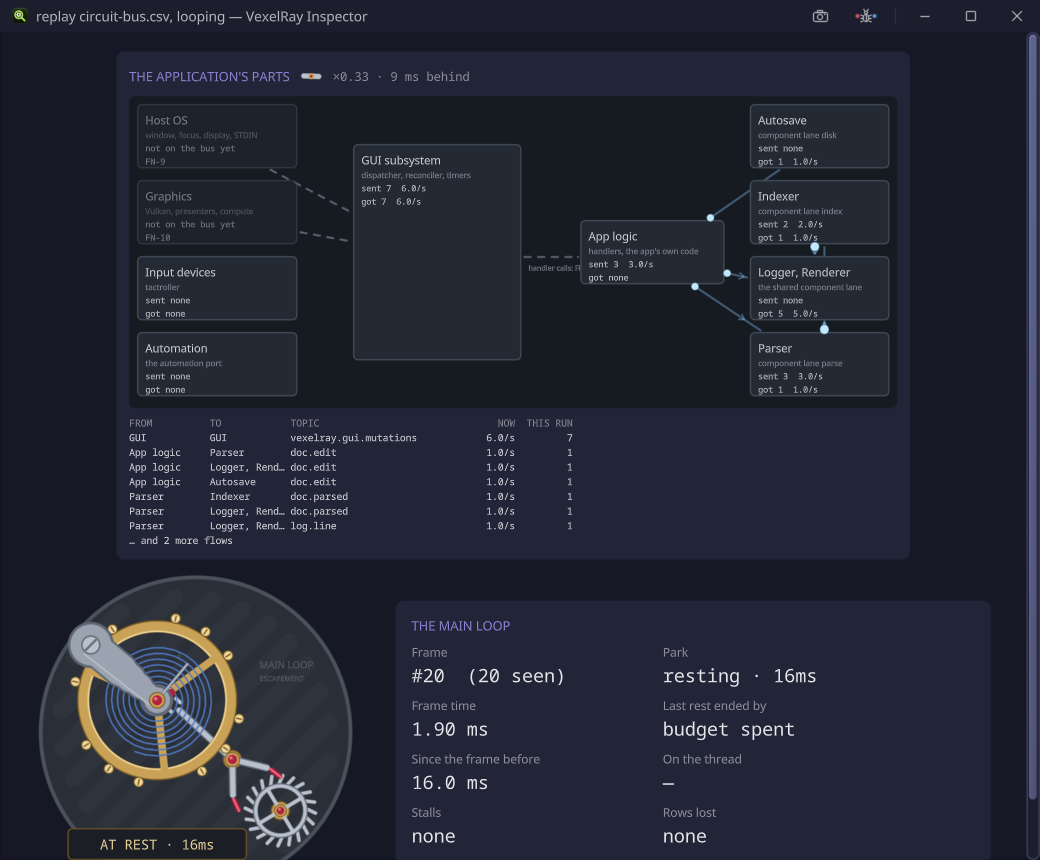
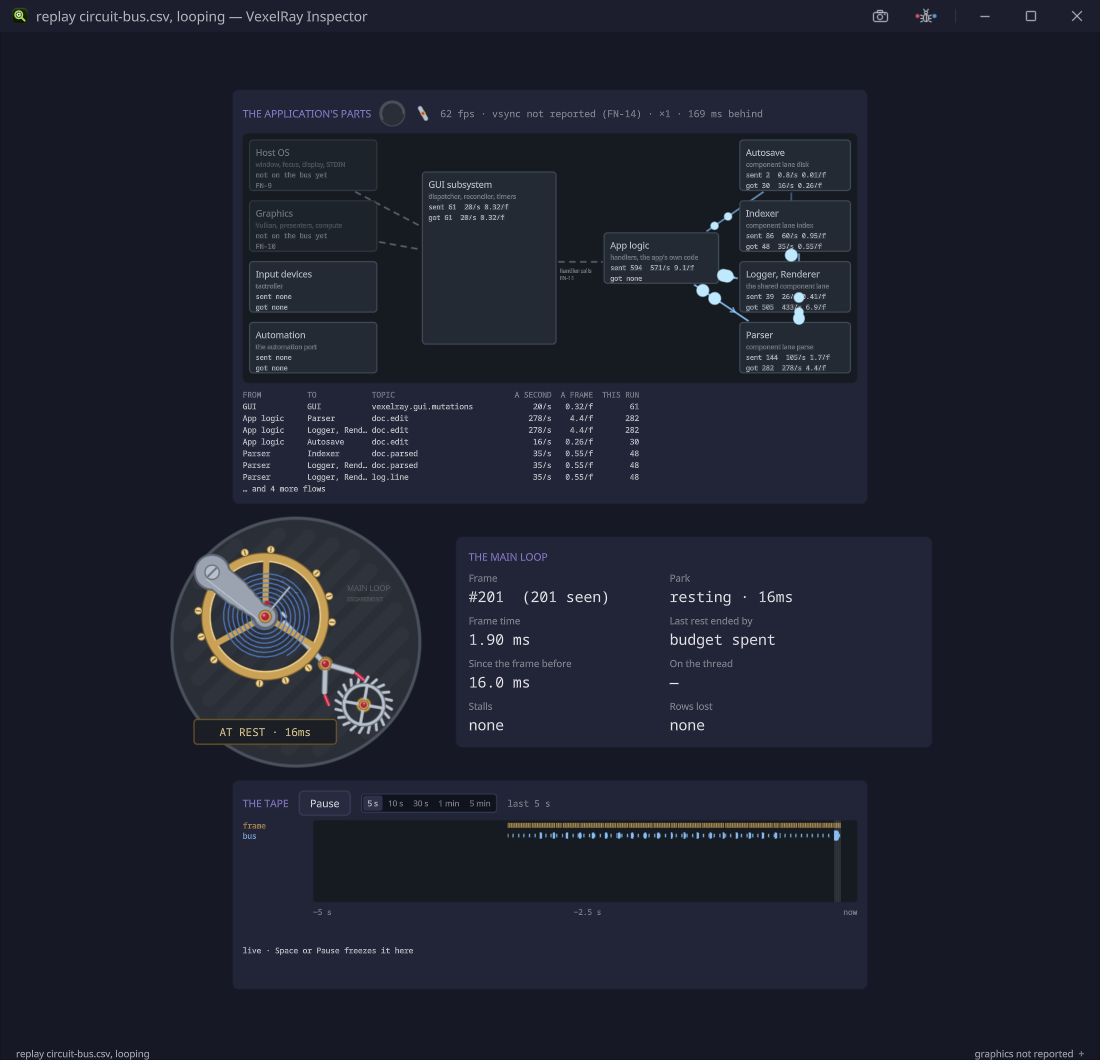
Docs and screenshots for the tape, the tachometer and the graphics line
The screenshots were from before the tape, Pause, the tachometer and the
status line's graphics. Retaken with ottermate at 1100x1060: the
calculator replay at the end of its first pass, the same paused with the
cursor on a frame.present, and the made-up component-lane run. The three
from the first skeleton, which nothing showed, are gone.

The README says how each was taken (resize answers err, so --keep-going;
a looping replay starts its tape afresh, so the last frame's forever park
is the moment), shows --bus.graph and --tape.seconds, and follows the
rename: inspector.log, and the history under ~/.inspector. The component
graph doc describes the tachometer and the governor's line; the roadmap
has the tachometer under M3 and the graphics line under M5.

diff --git a/README.md b/README.md
@@ -15,9 +15,12 @@ from its `vexel-desktop` template, and a **framework witness** like Vexplore: th
 
 ![The component graph and the main loop, replaying a calculator session](docs/screenshots/component-graph.png)
 
-*The calculator demo, replayed from `samples/calculator.csv`. Input devices and Automation send `tactroller.input` to
-the GUI, the app's handlers send it mutations, and the table under the graph names every flow with its rate and its
-total. Host OS and Graphics are drawn faint: nothing they do reaches the bus yet. Under the graph, the main loop.*
+*The calculator demo, replayed from `samples/calculator.csv`, at the end of its first pass. Input devices and Automation send
+`tactroller.input` to the GUI, the app's handlers send it mutations, and the table under the graph names every flow
+with its rate a second and a frame and its total. Host OS and Graphics are drawn faint: nothing they do reaches the bus
+yet. Beside the graph's title, the tachometer (no needle: a recording does not say its display's refresh, FN-14) and
+the governor's line. Under the graph, the main loop resting until woken, then the tape of the last 5 s, one track per
+lane; the status line says what is inspected and, at its right, what it draws with.*
 
 ## Status
 
@@ -39,7 +42,20 @@ the application's Inspector link, or it plays a recording.
 | **History by build**: every live run of an application whose build is known is kept (frames, frame time p50/p95/p99, stalls, rows lost, parks), keyed by its exact source and its stack's, and the strip under the movement compares this build with the ones before | Saying, at a glance, that this build is worse than the last (M8's rules) |
 | **The tape**: every row's header (seq, time, thread, lane, kind, frame; not its detail) for the last 5 s, 10 s, 30 s, 1 min or 5 min, chosen beside its *Pause* (`--tape.seconds` sets where it starts, any whole number), one track per lane in the order seen, ending at show time so it moves with the movement. A mark is the rows in a slice of time, taller the more there are; a ruled line is a frame. Sized for 20,000 rows a second; a storm faster than that shortens it, and the strip says by how much. A longer reach starts with what the tape already held | Remembering the reach chosen for the next run |
 | **Pause**: Space or the tape's *Pause* holds show time, so the movement, its readouts, the graph and the tape all stop at one moment while the target runs on. The tape is frozen there in a copy, a cursor marks one row and the panel under it gives that row's header and its neighbours: Left/Right a row, Ctrl+Left/Right a frame, Home/End, or a press or drag on a track. *Go on* goes back to live | The movement following the cursor back in time |
+| **What it draws with**: the status line's right end says the inspected application's GPU or software rasterizer, its device and its present path, and a click opens device, driver, Vulkan version, present path and validation above it | Any application answering (FN-12): today it says `graphics not reported` and why |
 | 110 tests, none of which needs a window; one builds the real tree headless, one streams from a real link, one launches a real child and stops it, and the show clock is played against made-up bursts and storms and the recorded sample, and the graph reads the recorded sample | |
+
+![Paused: the tape frozen, the cursor on a frame.present, and the rows around it](docs/screenshots/tape-paused.png)
+
+*Paused at the end of the same replay (Space), then Ctrl+Left twice and Left once: the cursor is on `#5171`, the
+`frame.present` of frame #43 on `main`, and the panel under the tape gives it and its neighbours, each with its time
+before show time and the frame it fell in or after. The target, a recording here, runs on behind the pause.*
+
+![The component graph of a made-up application with component lanes](docs/screenshots/component-graph-lanes.png)
+
+*`samples/circuit-bus.csv` with its declared graph, `samples/circuit-graph.txt` (both made up): App logic sends
+`doc.edit` to three component lanes, and the Parser lane passes `doc.parsed` on. Dots ride the arrows as the messages
+cross; past eight flows the table counts the rest.*
 
 ## Run it
 
@@ -65,6 +81,9 @@ mvn compile exec:exec "-Dapp.args=--launch mvn.cmd -q -f ../calculator-vexel-dem
                                                                            # start one, inspect it, stop it on close
 mvn compile exec:exec "-Dapp.args=--replay=run.csv --replay.speed=0.25"   # a quarter of the recorded pace
 mvn compile exec:exec "-Dapp.args=--replay=run.csv --replay.loop=false"   # once, then rest
+mvn compile exec:exec "-Dapp.args=--replay=samples/circuit-bus.csv --bus.graph=samples/circuit-graph.txt"
+                                                                           # a declared graph from a file, for a replay
+mvn compile exec:exec "-Dapp.args=--replay=run.csv --tape.seconds=30"     # the tape's reach to start with
 mvn compile exec:exec -Dautomation=0                                       # a driving socket on a free port
 mvn test
 ```
@@ -95,7 +114,7 @@ clock reaches it.
 | `graph/` | **the component graph as state, with no `Gui` in it** (docs/component-graph.md). `Graph` keeps the parts and every flow this run: one topic from one part to another, its total and a rate held over about a second. `Senders` says which part sent a message, from its thread and topic; `Receivers` is the stand-in table of who receives a topic when no named mailbox says so. |
 | `circuit/` | **the declared bus graph.** `BusGraph` reads it (docs/bus-circuit.md); the component graph uses it to name each component lane and place its mailboxes. |
 | `clock/` | **the mechanisms as state.** `Escapement` reads the `frame` lane (`frame.present` ticks, `loop.park` rests, the `frame` span and the first `wake` after a park) into a `Beat`, one immutable value, and tells a listener. `ShowClock` is the time the movement is shown at: real time, stretched for bursts within its slack, caught up past it. `Pending` is the ring between the source's thread and the timeline. `BeadPool` is the fixed set of message dots in flight; one closer than the gap to the last on its arrow rides on that dot. `BusRows` says what the `bus` lane's rows mean. |
-| `history/` | **every run kept, by build.** `Build` is what an application advertises in its discovery file: coordinates, its exact source (commit, plus `+dirty.<digest>` of uncommitted changes) and a digest of every stamped stack part, so two runs are one build only if all of it matches. `Session` measures a run from the escapement's beats; `History` keeps one CSV line per run in `~/.vexelray-inspector/history/<group>/<artifact>.csv` and sums runs per build; `Recorder` (behind `Runs`) begins and ends runs as sources switch. A replay, or an application built without `vexelray-build-maven-plugin`, is shown and not kept. |
+| `history/` | **every run kept, by build.** `Build` is what an application advertises in its discovery file: coordinates, its exact source (commit, plus `+dirty.<digest>` of uncommitted changes) and a digest of every stamped stack part, so two runs are one build only if all of it matches. `Session` measures a run from the escapement's beats; `History` keeps one CSV line per run in `~/.inspector/history/<group>/<artifact>.csv` (moved from `~/.vexelray-inspector/` on the first launch after the rename) and sums runs per build; `Recorder` (behind `Runs`) begins and ends runs as sources switch. A replay, or an application built without `vexelray-build-maven-plugin`, is shown and not kept. |
 | `tape/` | **the tape, with no `Gui` in it.** `Tape` is a ring of row headers, numbers only (thread, lane and kind are indexes into one table of names), sized for its reach at `Tape.RATE` rows a second and replaced whole, by the writer at its next row, when the reach changes; a row keeps its index in every ring. It counts the rows a storm pushed out early, finds a time, and counts a stretch of time into bins for the strip. |
 | `graphics/` | **what the inspected application draws with, with no `Gui` in it.** `Graphics` reads its answer to `gpu device` (device, type, vendor, driver, Vulkan version, present path), decodes the vendors' driver versions and says whether it is a software rasterizer. Not answered yet upstream (FN-12), so it shows the reason. `GraphicsView.java` puts it at the right of the status line, and a click opens the facts above it. |
 | `TapeView.java` | the tape on screen: ten segments across, each one picture built on the offload lane and only translated inside the frame; and, paused, the frozen copy, the cursor and the event panel. |
@@ -178,19 +197,36 @@ The plug's tooltip and the switches' window say the same in words, with the port
 
 ## Taking a screenshot
 
-Screenshots are `ottermate`'s (`vexelray-gui/vexelray-gui-automation-cli`). The plaque is the thing to wait on:
+Screenshots are `ottermate`'s (`vexelray-gui/vexelray-gui-automation-cli`). The ones in `docs/screenshots/` are
+1100x1060, and wait on a readout or the plaque for the moment they show. `component-graph.png` and `tape-paused.png`:
 
 ```
-await plaque AT REST · 200ms
-shot docs/screenshots/resting.png
+resize 1100x1060
+await readout.park forever
+shot docs/screenshots/component-graph.png
+key SPACE
+await tape.pause Go on
+key CTRL+LEFT
+key CTRL+LEFT
+key LEFT
+shot docs/screenshots/tape-paused.png
 ```
 
 ```
-ottermate --script check.txt --launch mvn.cmd -q compile exec:exec -Dautomation=0 "-Dapp.args=--replay=samples/calculator.csv"
+ottermate --keep-going --script shots.txt --launch mvn.cmd -q compile exec:exec -Dautomation=0 "-Dapp.args=--replay=samples/calculator.csv --tape.seconds=5"
 ```
 
-`settle` works too, and returns between beats (a swing is a 130 ms ramp, and the replay thread is not on the
-timeline), but it does not say *which* beat; `await` on a landmark does.
+`component-graph-lanes.png` is `resize 1100x1060`, `await readout.frame (2`, `shot`, launched with
+`"-Dapp.args=--replay=samples/circuit-bus.csv --bus.graph=samples/circuit-graph.txt --tape.seconds=5"`.
+
+- **`--keep-going`, because `resize` answers `err`**: it waits for the timeline to go quiet, which the Inspector's
+  timers never let it do (docs/TODO.md), and it has resized the window all the same. `settle` fails the same way, so
+  wait on a landmark.
+- **A replay that loops starts its tape afresh**, so a shot of a full tape is taken at the end of the first pass:
+  the calculator's last frame parks `forever`, and nothing earlier in it does. An `await` on a frame number can miss
+  it, because a readout is polled and frames come faster than that.
+- **`shot` takes a path the Inspector can open**: relative to the Inspector's working directory, or a Windows one.
+  An MSYS path such as `/c/Users/...` is not one.
 
 ## A native executable
 
@@ -205,5 +241,5 @@ sockets, off until asked for ([Automation](#automation)). Not yet built natively
 ## Logging
 
 Through `sibarum.probe.Log`, as `Log.of("vexelray-inspector.<area>")`. From a checkout the console shows info and
-`target/logs/vexelray-inspector.log` has debug; under `ottermate` the file is at trace with a probe trace beside it.
+`target/logs/inspector.log` has debug; under `ottermate` the file is at trace with a probe trace beside it.
 `--log=debug` changes the level for one launch.

diff --git a/docs/component-graph.md b/docs/component-graph.md
@@ -20,6 +20,11 @@ a closed list: a part can be added, split or merged when the stack can tell it a
 | **App logic** | what the application defines: its handlers, and its code on the main thread | live |
 | **Components** | each `@Component` lane: a thread and its mailboxes. One node per lane, named for the components on it | live, with its real mailboxes |
 
+![Four component lanes beside App logic, from a made-up run](screenshots/component-graph-lanes.png)
+
+*`samples/circuit-bus.csv` with `--bus.graph=samples/circuit-graph.txt`, both made up: the component lanes stand in a
+column at the right, each named for its components, and the shared lane is one node for both.*
+
 ## What moves, and what it means
 
 - **An arrow is a part sending to another part.** It appears the first time a message crosses it and stays for the
@@ -33,6 +38,11 @@ a closed list: a part can be added, split or merged when the stack can tell it a
   passed: which topics, between which parts, and how many.
 - **A message within a part** (the GUI's caret timer writing to the tree, say) is a row in the table with the same
   part as both ends, and no arrow.
+- **Beside the title, the tachometer and the governor's line.** The needle is the frames the target drew a second,
+  full scale at its display's refresh and into the ruby past it; a turn of its loop that skipped its draw is not a
+  frame. The line says it in numbers, then how dilated show time is and how far behind it runs:
+  `62 fps · of 60 Hz · ×1 · real time`. No application says its refresh yet (FN-14), so the dial has no scale and no
+  needle, and the line says `vsync not reported (FN-14)`.
 - **A dashed arrow is a path that exists and does not reach the bus**: Host OS → GUI, Graphics → GUI, and GUI → App
   logic, because the GUI calls handlers directly (FN-11). Each is labelled with the note that would make it real.
 

diff --git a/docs/roadmap.md b/docs/roadmap.md
@@ -262,6 +262,10 @@ Senders are read from the thread and the topic, and receivers from named mailbox
 Graphics are not on the bus at all, and handlers are called directly, not by message. Those three, and measured
 senders and receivers, are framework-notes.md FN-7 to FN-11.
 
+**2026-10-23: the tachometer.** Beside the governor, a dial of the frames the target drew a second, against its
+display's refresh. Every rate in the graph is now given a second and a frame drawn. The refresh is the target's to say,
+and it does not yet (FN-14).
+
 ### M4 — Time
 
 - The pinned cylinder: live shreds and their states (the SPORK…END trace), scheduled entries, effects and their
@@ -279,6 +283,10 @@ senders and receivers, are framework-notes.md FN-7 to FN-11.
 - The resource ledger with bytes and owners, and validation messages linked to the frame they occurred in.
 - Frame thumbnails through `readFrame`, taken on demand. `shot` already does this.
 - Port: `gpu` and `ledger`.
+
+**Started 2026-10-22: what it draws with.** The status line's right end says the target's device, whether it is a
+GPU or a software rasterizer, and its present path; a click opens the driver, Vulkan version and validation. The link
+asks `gpu device` once a run, and no application answers yet (FN-12), so today it shows why not.
 
 ### M6 — Threads and the JVM
 

diff --git a/CLAUDE.md b/CLAUDE.md
@@ -65,7 +65,7 @@ A script is one command per line: `settle`, `tree`, `click <landmark>`, `type <t
 `await <landmark> <text>`, `shot <file.png>`. It stops at the first failure. Screenshots come only from `ottermate`.
 Never add a `--capture` flag, a robot or a screen grab to the application.
 
-When a run fails, read `target/logs/vexelray-inspector.log` (`target-linux/logs/` on Linux) before changing code. Under automation it is at trace level.
+When a run fails, read `target/logs/inspector.log` (`target-linux/logs/` on Linux) before changing code. Under automation it is at trace level.
 
 ## The three documents
 

diff --git a/docs/TODO.md b/docs/TODO.md
@@ -20,6 +20,9 @@ Keep an entry short enough that it does not need editing, and delete it when it 
       forever", so `settle` and `zoom` wait out their timeout once a `--replay.loop=false` run has ended. Already so at
       069f1aa; found, not chased.
 
+- [ ] **The plaque wraps `AT REST · UNTIL WOKEN`** onto two lines at 1100 px wide (docs/screenshots/component-graph.png);
+      the other plaques fit on one. Found while retaking the screenshots, not chased.
+
 ## The tape (M2)
 
 - [ ] **A replay looping while paused clears the graph on going on**: the graph's counts are reset when the new run
